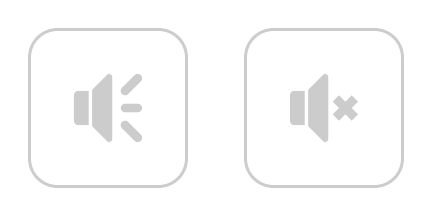
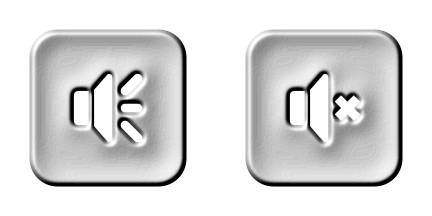
panel buttons redesigned

diff --git a/squarely/game_objects.py b/squarely/game_objects.py
@@ -1026,7 +1026,7 @@ class PlayerDialog(pyglet.sprite.Sprite):
         self.label = pyglet.text.Label(
             common.lang["player_account"],
             font_name='DejaVu Sans Mono',
-            color=(255, 255, 255, 255),
+            color=(220, 220, 220, 255),
             font_size=int(16 * self.scale),
             x=self.base_square * 3, y=self.y - self.base_square // 2,
             anchor_x='center', anchor_y='center', batch=self.batch)
@@ -1289,6 +1289,7 @@ class Panel(object):
         self.button_settings.area = self.button_settings.x, self.button_settings.y, self.button_settings.x + \
                                     self.btn_dim, self.button_settings.y + self.btn_dim
         self.button_settings.selected = False
+        self.button_settings.opacity = 160
 
         self.button_sound = pyglet.sprite.Sprite(self.img_sound if not common.settings.muted else self.img_sound_off)
         self.button_sound.x = self.margin + self.btn_dim
@@ -1298,6 +1299,7 @@ class Panel(object):
         self.button_sound.area = self.button_sound.x, self.button_sound.y, self.button_sound.x + \
                                  self.btn_dim, self.button_sound.y + self.btn_dim
         self.button_sound.selected = False
+        self.button_sound.opacity = 160
 
         self.button_undo = pyglet.sprite.Sprite(self.img_undo)
         self.button_undo.x = self.margin + self.btn_dim * 2
@@ -1306,6 +1308,7 @@ class Panel(object):
         self.button_undo.area = self.button_undo.x, self.button_undo.y, self.button_undo.x + \
                                 self.btn_dim, self.button_undo.y + self.btn_dim
         self.button_undo.selected = False
+        self.button_undo.opacity = 160
 
         self.button_down = pyglet.sprite.Sprite(self.img_down)
         self.button_down.x = self.margin + self.btn_dim * 3
@@ -1314,6 +1317,7 @@ class Panel(object):
         self.button_down.area = self.button_down.x, self.button_down.y, self.button_down.x + \
                                 self.btn_dim, self.button_down.y + self.btn_dim
         self.button_down.selected = False
+        self.button_down.opacity = 160
 
         self.button_up = pyglet.sprite.Sprite(self.img_up)
         self.button_up.x = self.margin + self.btn_dim * 4
@@ -1322,6 +1326,7 @@ class Panel(object):
         self.button_up.area = self.button_up.x, self.button_up.y, self.button_up.x + \
                               self.btn_dim, self.button_up.y + self.btn_dim
         self.button_up.selected = False
+        self.button_up.opacity = 160
 
         self.button_start = pyglet.sprite.Sprite(self.img_start)
         self.button_start.x = self.margin + self.btn_dim * 5
@@ -1330,6 +1335,7 @@ class Panel(object):
         self.button_start.area = self.button_start.x, self.button_start.y, self.button_start.x + \
                                  self.btn_dim, self.button_start.y + self.btn_dim
         self.button_start.selected = False
+        self.button_start.opacity = 160
 
         self.button_name = pyglet.sprite.Sprite(self.img_text)
         self.button_name.x = self.margin
@@ -1338,11 +1344,12 @@ class Panel(object):
         self.button_name.area = self.button_name.x, self.button_name.y, self.button_name.x + \
                                 self.btn_dim * 3, self.button_name.y + self.btn_half
         self.button_name.selected = False
+        self.button_name.opacity = 160
 
         self.button_name.label = pyglet.text.Label(
             common.player.name,
             font_name='DejaVu Sans Mono',
-            color=(87, 87, 120, 255),
+            color=(87, 87, 120, 160),
             font_size=int(34 * self.scale),
             x=self.button_name.x + self.button_name.image.width // 2,
             y=self.button_name.y + self.button_name.image.height // 2,
@@ -1356,6 +1363,7 @@ class Panel(object):
                                  self.btn_dim, self.button_cloud.y + self.btn_half
         self.button_cloud.selected = False
         self.button_cloud.online = False
+        self.button_cloud.opacity = 160
 
         self.update_user_label()  # check if it's necessary
 
@@ -1366,6 +1374,7 @@ class Panel(object):
         self.button_top10.area = self.button_top10.x, self.button_top10.y, self.button_top10.x + \
                                  self.btn_dim, self.button_top10.y + self.btn_half
         self.button_top10.selected = False
+        self.button_top10.opacity = 160
 
         self.button_about = pyglet.sprite.Sprite(self.img_about)
         self.button_about.x = self.margin + self.btn_dim * 5
@@ -1374,6 +1383,7 @@ class Panel(object):
         self.button_about.area = self.button_about.x, self.button_about.y, self.button_about.x + \
                                  self.btn_dim, self.button_about.y + self.btn_half
         self.button_about.selected = False
+        self.button_about.opacity = 160
 
         """Level score buttons"""
         self.level_display_y = self.margin * 2 + self.btn_dim * 1.5
@@ -1536,7 +1546,7 @@ class Panel(object):
     def set_selection(self, button, value):
         if value:
             button.selected = True
-            button.color = 255, 100, 0
+            button.color = 0, 190, 255
         else:
             button.selected = value
             button.color = 255, 255, 255
